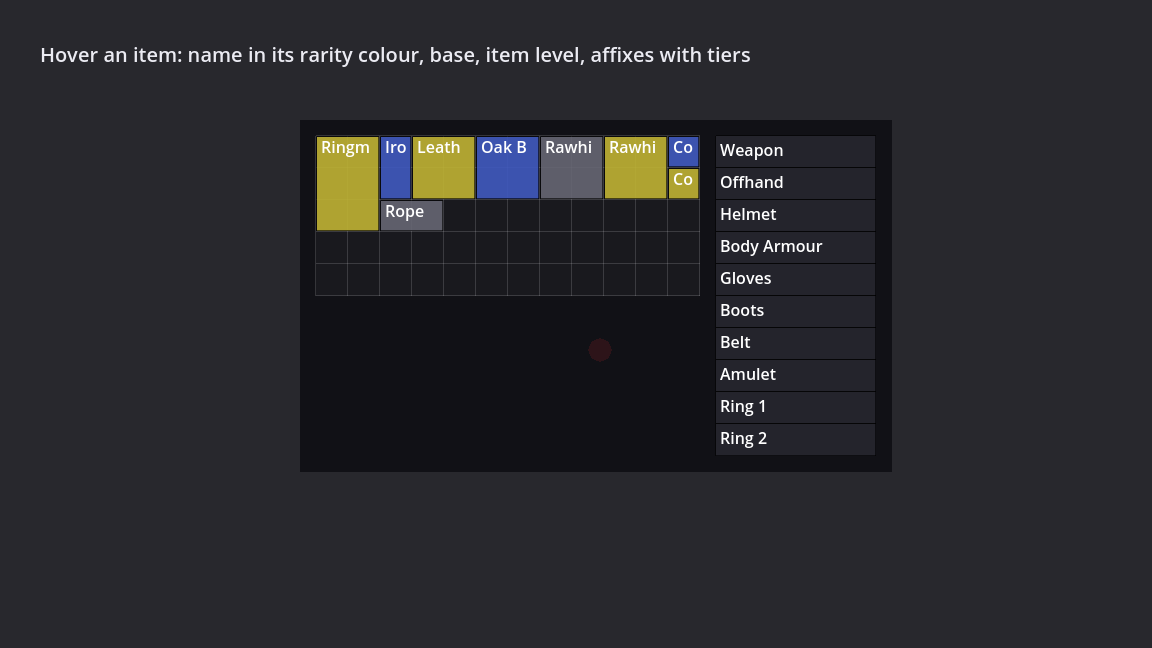
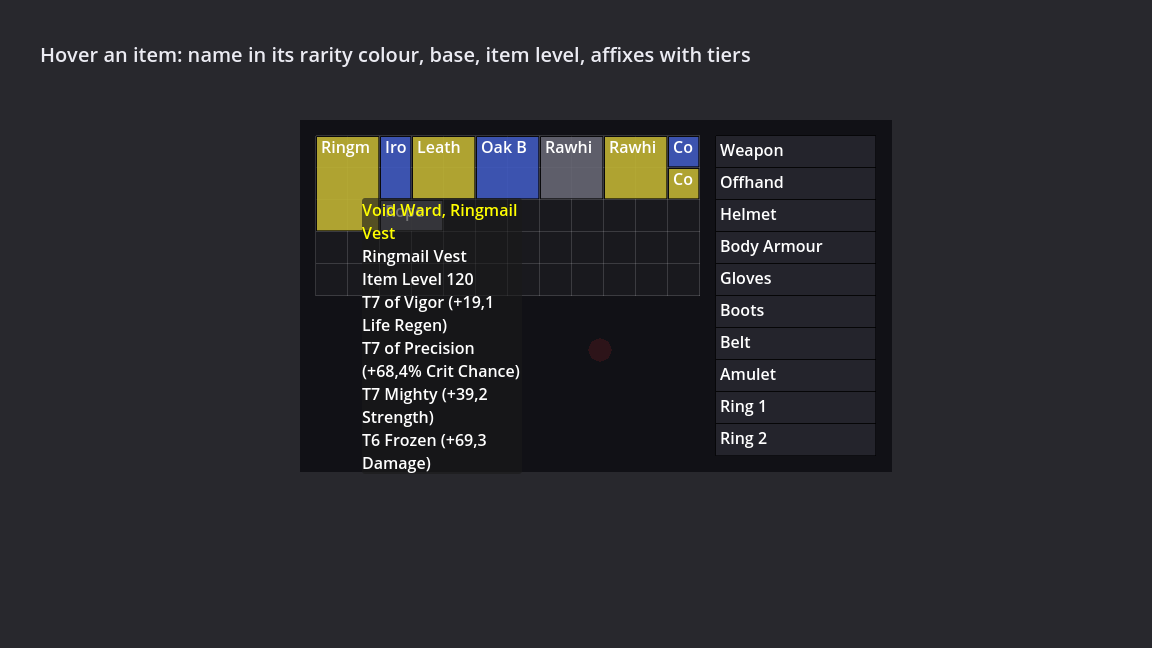
Fix tooltips never appearing: give the tooltip an owner
Reported from play: hovering showed nothing, on ground items or in the
inventory. It was dead in both cases, for the same reason.

Three sources drive one shared tooltip — the inventory grid, the equipment
strip, and ground items — and the first two poll hover every frame. Each called
Hide() unconditionally on a miss, so whichever ran last in a frame won, and that
was almost always a miss. The grid hid the tooltip on every frame the inventory
was closed, which meant a ground hover could never survive a single frame; with
the panel open, the grid and the strip undid each other.

Show now records who asked, and Clear only hides when the caller is the source
currently holding the tooltip. Ownership rather than call order, so adding a
fourth source later cannot silently kill the feature again.

Two things this exposed on the way, both kept:

ItemTooltipControl sets its own Layer. Every CanvasLayer defaulted to 0, making
draw order fall back to tree position, and in Main.tscn the tooltip is declared
before the Player that owns InventoryUI — so the panel drew over it.

An unresolved ItemTooltipControl now pushes a warning instead of disabling the
whole feature in silence, since every call site is null-conditional.

Verified by screenshot rather than by assertion: the tooltip renders name in
rarity colour, base, item level and affixes with tier numbers. No test caught
any of this — all of them exercise the model, and the model was always right.

Changed region(s): [[0.3125, 0.3086, 0.4688, 0.7407]]

diff --git a/scripts/UI/ItemTooltipControl.cs b/scripts/UI/ItemTooltipControl.cs
@@ -33,6 +33,9 @@ public partial class ItemTooltipControl : CanvasLayer
 
     private RichTextLabel _label = null!;
 
+    /// <summary>Whoever most recently called <see cref="Show"/>. See <see cref="Clear"/>.</summary>
+    private object? _owner;
+
     public override void _Ready()
     {
         // A tooltip is the topmost thing on screen by definition, so it sets its own
@@ -65,8 +68,10 @@ public partial class ItemTooltipControl : CanvasLayer
     /// the current mouse position. Safe to call every frame from a hover-polling
     /// <c>_Process</c> — it only ever overwrites the same label/position, never
     /// accumulates state.</summary>
-    public void Show(EquipmentItem item)
+    public void Show(EquipmentItem item, object requester)
     {
+        _owner = requester;
+
         _label.Text = ItemTooltipText.Build(item);
         Visible = true;
 
@@ -74,7 +79,29 @@ public partial class ItemTooltipControl : CanvasLayer
         panel.Position = GetViewport().GetMousePosition() + CursorOffset;
     }
 
-    // Hiding is just the inherited CanvasLayer.Hide() (Visible = false) — no
-    // override needed, so callers use that directly rather than this class
-    // shadowing it with an identical no-op wrapper.
+    /// <summary>
+    /// Hides the tooltip, but only if <paramref name="requester"/> is the source
+    /// that last showed it.
+    ///
+    /// Three things drive this tooltip — the inventory grid, the equipment strip,
+    /// and ground items — and the first two poll hover every frame. When each of
+    /// them called <c>Hide()</c> unconditionally on a miss, whichever ran last in a
+    /// frame won, and that was almost always a miss: the grid hid the tooltip every
+    /// frame while the inventory was closed, so a ground-item hover could never
+    /// survive, and with the panel open the grid and the strip undid each other.
+    /// The feature was completely dead in both cases.
+    ///
+    /// Ownership rather than call order is what fixes it: a source can only take
+    /// the tooltip away if it is the one currently holding it.
+    /// </summary>
+    public void Clear(object requester)
+    {
+        if (!ReferenceEquals(_owner, requester))
+        {
+            return;
+        }
+
+        _owner = null;
+        Visible = false;
+    }
 }

diff --git a/scripts/UI/InventoryGridControl.cs b/scripts/UI/InventoryGridControl.cs
@@ -53,6 +53,13 @@ public partial class InventoryGridControl : Control
         _tooltip = GetNodeOrNull<ItemTooltipControl>(ItemTooltipPath)
             ?? GetTree().CurrentScene.GetNodeOrNull<ItemTooltipControl>("ItemTooltip");
 
+        // Every tooltip call site is null-conditional, so an unresolved tooltip
+        // disables the whole feature in total silence. Say so instead.
+        if (_tooltip is null)
+        {
+            GD.PushWarning("[grid] ItemTooltipControl not found: no 'ItemTooltip' node on the current scene, and ItemTooltipPath is unset. Tooltips are disabled.");
+        }
+
         CustomMinimumSize = new Vector2(Inventory.Width * CellPx, Inventory.Height * CellPx);
         MouseFilter = MouseFilterEnum.Stop;
     }
@@ -70,7 +77,7 @@ public partial class InventoryGridControl : Control
         }
         else
         {
-            _tooltip?.Hide();
+            _tooltip?.Clear(this);
         }
     }
 
@@ -90,11 +97,11 @@ public partial class InventoryGridControl : Control
         EquipmentItem? hovered = gridRect.HasPoint(mouseLocal) ? _inventory.GetItemAt(CellAt(mouseLocal)) : null;
         if (hovered is not null)
         {
-            _tooltip?.Show(hovered);
+            _tooltip?.Show(hovered, this);
         }
         else
         {
-            _tooltip?.Hide();
+            _tooltip?.Clear(this);
         }
     }
 

diff --git a/scripts/UI/EquipmentStripControl.cs b/scripts/UI/EquipmentStripControl.cs
@@ -85,6 +85,13 @@ public partial class EquipmentStripControl : Control
         _tooltip = GetNodeOrNull<ItemTooltipControl>(ItemTooltipPath)
             ?? GetTree().CurrentScene.GetNodeOrNull<ItemTooltipControl>("ItemTooltip");
 
+        // Every tooltip call site is null-conditional, so an unresolved tooltip
+        // disables the whole feature in total silence. Say so instead.
+        if (_tooltip is null)
+        {
+            GD.PushWarning("[strip] ItemTooltipControl not found: no 'ItemTooltip' node on the current scene, and ItemTooltipPath is unset. Tooltips are disabled.");
+        }
+
         CustomMinimumSize = new Vector2(WidthPx, Order.Length * RowPx);
         MouseFilter = MouseFilterEnum.Stop;
     }
@@ -98,7 +105,7 @@ public partial class EquipmentStripControl : Control
         }
         else
         {
-            _tooltip?.Hide();
+            _tooltip?.Clear(this);
         }
     }
 
@@ -124,11 +131,11 @@ public partial class EquipmentStripControl : Control
             : null;
         if (hovered is not null)
         {
-            _tooltip?.Show(hovered);
+            _tooltip?.Show(hovered, this);
         }
         else
         {
-            _tooltip?.Hide();
+            _tooltip?.Clear(this);
         }
     }
 

diff --git a/scripts/Items/EquipmentItem.cs b/scripts/Items/EquipmentItem.cs
@@ -100,8 +100,8 @@ public partial class EquipmentItem : Area2D, IDroppable
         // repeatedly as more items spawn.
         GetViewport().PhysicsObjectPicking = true;
         InputEvent += OnAreaInputEvent;
-        MouseEntered += () => _tooltip?.Show(this);
-        MouseExited += () => _tooltip?.Hide();
+        MouseEntered += () => _tooltip?.Show(this, this);
+        MouseExited += () => _tooltip?.Clear(this);
 
         _tooltip = GetNodeOrNull<UI.ItemTooltipControl>(ItemTooltipPath)
             ?? GetTree().CurrentScene.GetNodeOrNull<UI.ItemTooltipControl>("ItemTooltip");
@@ -189,11 +189,11 @@ public partial class EquipmentItem : Area2D, IDroppable
             {
                 if (hovering)
                 {
-                    _tooltip?.Show(this);
+                    _tooltip?.Show(this, this);
                 }
                 else
                 {
-                    _tooltip?.Hide();
+                    _tooltip?.Clear(this);
                 }
             });
     }
